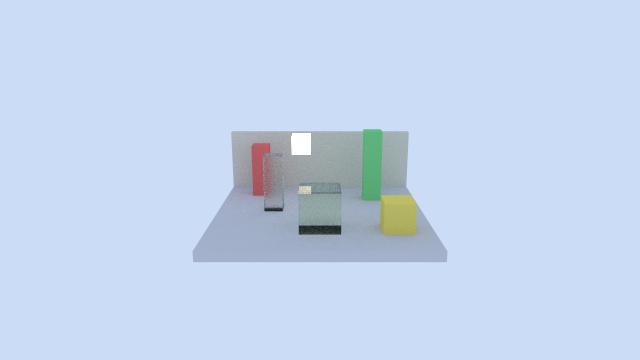
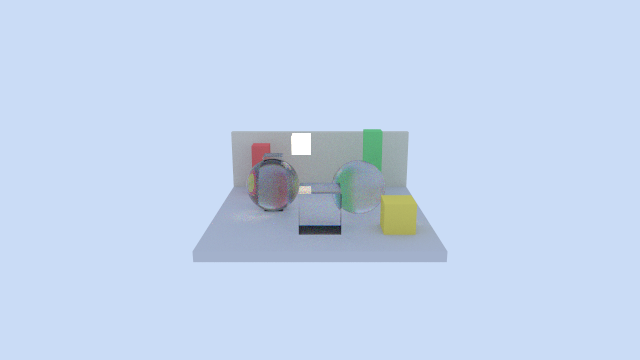
docs: showcase glass spheres + frosted/prismatic; note sphere primitive
Update the glass gallery image to the spheres scene (clear lens sphere + frosted
sphere + cube) and record the analytic sphere primitive in the roadmap.

Changed region(s): [[0.375, 0.4278, 0.5938, 0.6417]]

diff --git a/docs/ROADMAP.md b/docs/ROADMAP.md
@@ -38,6 +38,9 @@ accumulation, GGX PBR; load a glTF test mesh + materials.
   blue-bends-more, chromatic-separation, and a dispersive white-furnace energy bound (`--dispersion`).
 - [x] Reference renderer is **multithreaded** (atomic-dispatched scanlines; ~4x on 4 cores) and
   bit-for-bit deterministic, since each pixel's RNG is seeded from (seed, pixel index).
+- [x] Analytic **sphere** primitive in the reference renderer (exact ray/sphere intersection),
+  alongside the triangle BVH — for smooth glass spheres in test/demo scenes (the game world stays
+  triangle/voxel-based on the GPU).
 - [ ] GPU: BLAS/TLAS + RT pipeline; primary-hit albedo; NEE shadows; temporal accumulation; GGX BSDF.
 
 ### Volumetrics ("air") — CPU groundwork

diff --git a/README.md b/README.md
@@ -98,7 +98,7 @@ and refraction/dispersion by Snell/Fresnel/TIR and Cauchy/chromatic-separation u
 |---|---|---|
 | ![direct](docs/images/cpu_reference_demo.png) | ![gi](docs/images/cpu_reference_pt.png) | ![fog](docs/images/cpu_reference_fog.png) |
 
-| Glass (refraction) | Chromatic dispersion |
+| Glass (spheres + cube) | Chromatic dispersion |
 |---|---|
 | ![glass](docs/images/cpu_reference_glass.png) | ![dispersion](docs/images/cpu_reference_dispersion.png) |
 
